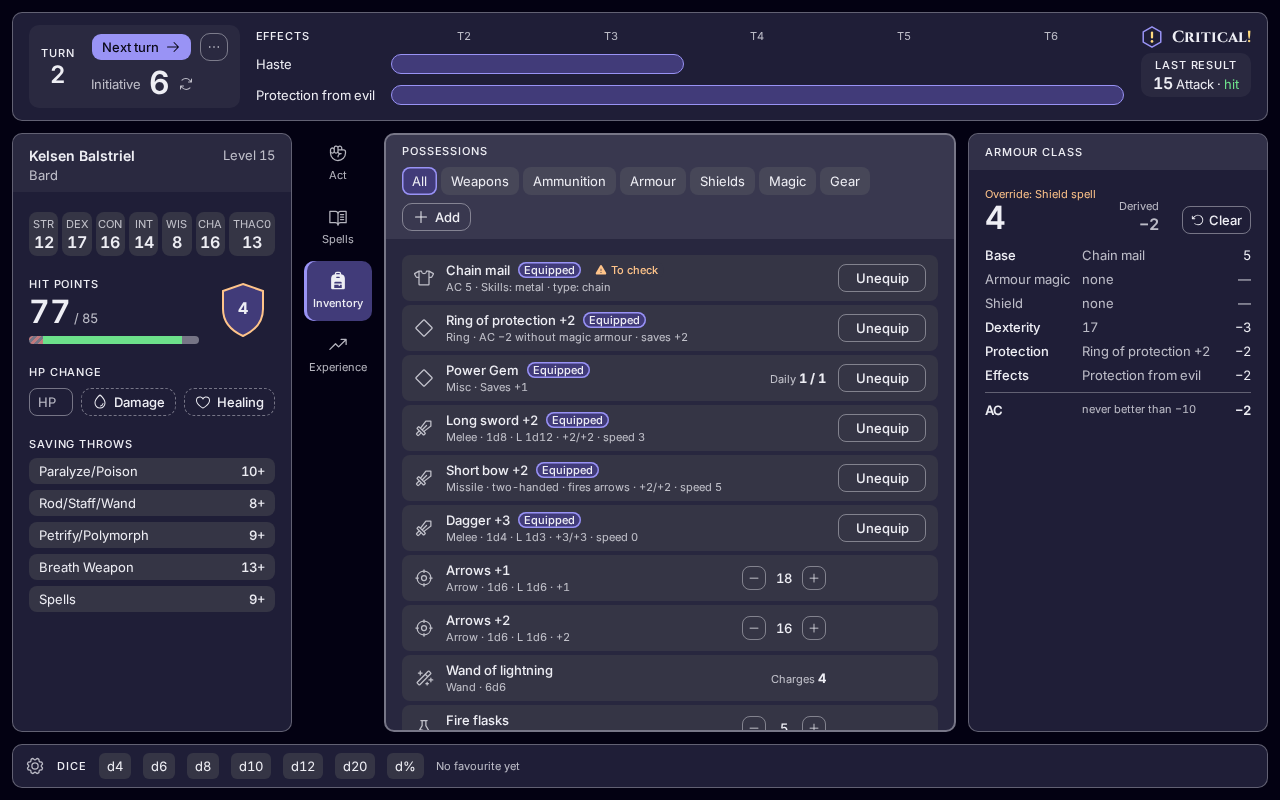
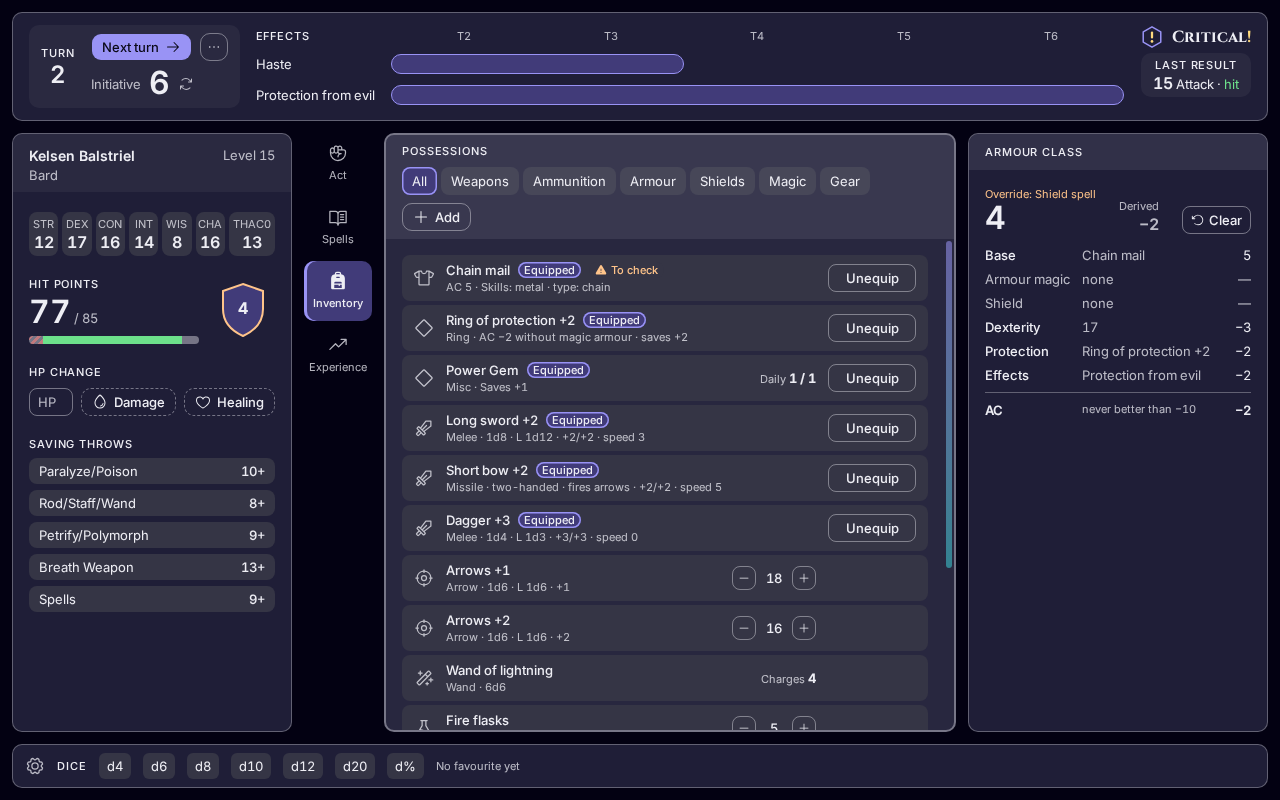
docs(design): equipment shots with real scrollbars at 1920x1080, contrast report names every theme (CRI-32)

diff --git a/web/ui-review/contrast.spec.ts b/web/ui-review/contrast.spec.ts
@@ -200,6 +200,9 @@ const NAMES: Record<string, string> = {
   deep: "Deep (Abysses)",
   parchment: "Parchment (Parchemin)",
   plain: "Plain (Sobre)",
+  forest: "Forest (Forêt)",
+  ember: "Ember (Braise)",
+  amber: "Amber (Ambre)",
 };
 
 base("contrast report: every theme token pair, both modes", async () => {

diff --git a/docs/design/ui-review/contrast.md b/docs/design/ui-review/contrast.md
@@ -10,7 +10,7 @@ Semi-transparent tokens are composited over their backdrop in gamma sRGB.
 
 ## Dark mode
 
-| Pair | min | Arcane | Deep (Abysses) | Plain (Sobre) |  |  |  |
+| Pair | min | Arcane | Deep (Abysses) | Plain (Sobre) | Forest (Forêt) | Ember (Braise) | Amber (Ambre) |
 |---|---|---|---|---|---|---|---|
 | ink on ground | 4.5 | 17.83 | 17.82 | 17.80 | 17.84 | 17.77 | 17.80 |
 | ink on surface | 4.5 | 13.93 | 13.81 | 13.83 | 13.69 | 14.02 | 13.90 |
@@ -45,7 +45,7 @@ Semi-transparent tokens are composited over their backdrop in gamma sRGB.
 
 ### dark role values
 
-| Token | Arcane | Deep (Abysses) | Plain (Sobre) |  |  |  |
+| Token | Arcane | Deep (Abysses) | Plain (Sobre) | Forest (Forêt) | Ember (Braise) | Amber (Ambre) |
 |---|---|---|---|---|---|---|
 | ground | `oklch(0.1 0.048 285)` | `oklch(0.1 0.028 250)` | `oklch(0.1 0.021 265)` | `oklch(0.1 0.021 165)` | `oklch(0.1 0.035 15)` | `oklch(0.1 0.02 60)` |
 | surface | `oklch(0.25 0.046 285)` | `oklch(0.25 0.04 245)` | `oklch(0.25 0.019 265)` | `oklch(0.25 0.04 160)` | `oklch(0.25 0.05 12)` | `oklch(0.25 0.035 65)` |
@@ -65,7 +65,7 @@ Semi-transparent tokens are composited over their backdrop in gamma sRGB.
 
 ## Light mode
 
-| Pair | min | Arcane | Parchment (Parchemin) | Plain (Sobre) |  |
+| Pair | min | Arcane | Parchment (Parchemin) | Plain (Sobre) | Forest (Forêt) |
 |---|---|---|---|---|---|
 | ink on ground | 4.5 | 13.49 | 10.98 | 13.52 | 12.49 |
 | ink on surface | 4.5 | 18.61 | 15.19 | 18.54 | 17.49 |
@@ -100,7 +100,7 @@ Semi-transparent tokens are composited over their backdrop in gamma sRGB.
 
 ### light role values
 
-| Token | Arcane | Parchment (Parchemin) | Plain (Sobre) |  |
+| Token | Arcane | Parchment (Parchemin) | Plain (Sobre) | Forest (Forêt) |
 |---|---|---|---|---|
 | ground | `oklch(0.89 0.044 285)` | `oklch(0.865 0.034 80)` | `oklch(0.89 0.017 265)` | `oklch(0.875 0.04 155)` |
 | surface | `oklch(0.995 0.002 285)` | `oklch(0.97 0.02 88)` | `oklch(0.995 0.002 265)` | `oklch(0.99 0.01 140)` |

diff --git a/docs/design/equipment/README.md b/docs/design/equipment/README.md
@@ -18,7 +18,7 @@ things sit, under [ADR 0022](../../adr/0022-activity-focus-layout.md),
   Phosphor icons; data in `data.ts`: Kelsen, a level 15 bard, after the conversion of ADR 0033 step
   26; PHB values). `?screen=<id>&lang=fr|en&theme=<id>&light=1`.
 - **Shots**: `just equipment-shots` serves them on the app's Vite and writes
-  `shots/<screen>--<fr|en>-<WxH>.png` at 1280x800 and 2560x1440, plus `-full.png` when a card
+  `shots/<screen>--<fr|en>-<WxH>.png` at 1280x800, 1920x1080 and 2560x1440, plus `-full.png` when a card
   scrolls at that size. It fails on cut text or a page scroll; `--self-test` checks the audit,
   `--fr` shoots French only, `--only=a,b` some screens.
 
